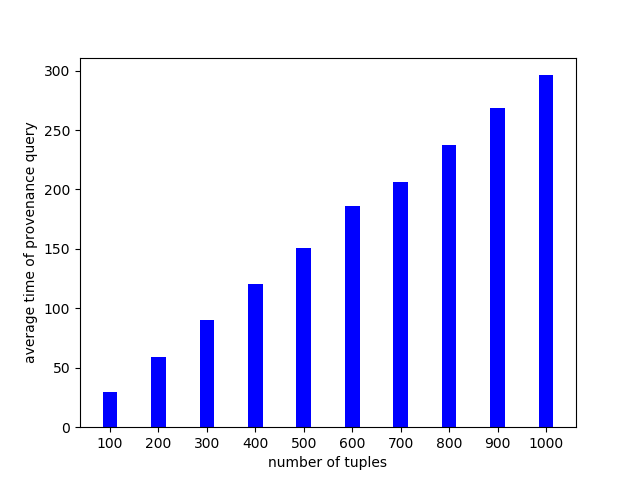
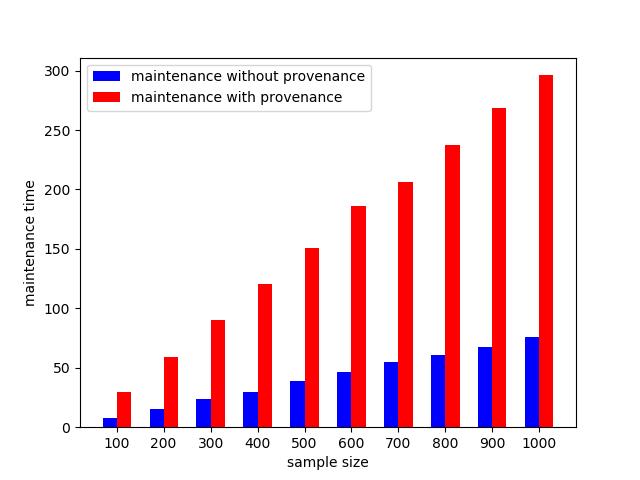
debug toprov

diff --git a/drawBarGraph.py b/drawBarGraph.py
@@ -32,18 +32,31 @@ def drawQueryTimes_5():
 
 
 def drawMaintenanceTime_7():
+  ax = plt.subplot(111)
   xList = ["100", "200", "300", "400", "500", "600", "700", "800", "900", "1000"]
-  queryList = [29.8, 59.1, 90.07, 120.8, 150.5, 186, 206.3, 237.3, 268.6, 296.1]
-  plt.bar(xList, queryList, width=0.3, color="blue")
-  plt.xlabel("number of tuples")
-  plt.ylabel("average time of provenance query")
+  queryList1 = [29.8, 59.1, 90.07, 120.8, 150.5, 186, 206.3, 237.3, 268.6, 296.1]
+  queryList2 = [7.70942, 15.3306, 23.4762, 29.7336, 39.1901, 46.2846, 54.4626, 60.7309, 67.4802, 75.6743]
+  x = np.arange(len(xList))
+  w = 0.3
+  ax.bar(x-0.5*w, queryList2, w, label='maintenance without provenance', color='b')
+  ax.bar(x+0.5*w, queryList1, w, label='maintenance with provenance', color='r')
+  ax.set_ylabel('maintenance time')
+  ax.set_yscale("linear")
+  ax.set_xlabel('sample size')
+  ax.set_xticks(x)
+  ax.set_xticklabels(xList)
+  ax.legend()
   plt.show()
 
 
 def drawQueryTimes_7():
   xList = ["100", "200", "300", "400", "500", "600", "700", "800", "900", "1000"]
-  queryList1 = [0.196, 0.343, 0.567, 0.834, 1.136, 1.778, 2.14, 2.66, 4.56, 7.18]
-  queryList2 = [0.274, 0.58, 0.94, 1.637, 2.174, 2.68, 3.2, 4.05, 5.3, 6.37]
+  # queryList1 = [0.196, 0.343, 0.567, 0.834, 1.136, 1.778, 2.14, 2.66, 4.56, 7.18]
+  queryList1 = [0.1617900351288056, 0.29600839753466873, 0.4953646528417818, 0.7535317385321101, 1.0699165395136778,
+                1.6836761851289834, 2.0418132129909368, 2.5484677601809955, 4.498209130434782, 7.109328710644677]
+  # queryList2 = [0.274, 0.58, 0.94, 1.637, 2.174, 2.68, 3.2, 4.05, 5.3, 6.37]
+  queryList2 = [0.23808514354066984, 0.5371160580152672, 0.8954505701357466, 1.5968827611940297, 2.140646583703704,
+                2.6401818698224853, 3.1556854452662724, 4.0063278197932055, 5.25113364844904, 6.307514858197933]
   ql1 = np.array(queryList1)
   ql2 = np.array(queryList2)
   ql = (ql1+ql2)/2
@@ -86,7 +99,7 @@ def drawProbQueryTimes_7AVG_Logscale():
   ax.bar(x+0.5*w, queryList2, w, label='sampling', color='r')
   ax.set_ylabel('Probability query time')
   ax.set_yscale("log")
-  ax.set_title('Sample size')
+  ax.set_xlabel('sample size')
   ax.set_xticks(x)
   ax.set_xticklabels(xList)
   ax.legend()
@@ -144,7 +157,7 @@ def drawInflQueryTimes_7AVG_Logscale():
   ax.bar(x+0.5*w, queryList2, w, label='exact', color='r')
   ax.set_ylabel('Influence query time')
   ax.set_yscale("log")
-  ax.set_title('Sample size')
+  ax.set_xlabel('sample size')
   ax.set_xticks(x)
   ax.set_xticklabels(xList)
   ax.legend()
@@ -165,12 +178,12 @@ if __name__ == '__main__':
   # drawProbTimes()
   # drawQueryTimes_4()
   # drawQueryTimes_5()
-  drawQueryTimes_7()
-  # drawMaintenanceTime_7()
+  # drawQueryTimes_7()
+  drawMaintenanceTime_7()
   # drawProbQueryTimes_7AVG()
-  # drawProbQueryTimes_7AVG_Logscale()
+  drawProbQueryTimes_7AVG_Logscale()
   # drawProbQueryTimes_8AVG()
   # drawInflQueryTimes_7()
   # drawInflQueryTimes_7AVG()
   # drawInflQueryTimes_7AVG_equa()
-  # drawInflQueryTimes_7AVG_Logscale()
+  drawInflQueryTimes_7AVG_Logscale()

diff --git a/hyperClassToProv.py b/hyperClassToProv.py
@@ -24,16 +24,14 @@ for line in infile.readlines():
     toWrite = split[6][14:]
     outfile.write(toWrite+'\n')
 
-time = 0
-tcount = 0
+intervals = []
 for i in range(2, len(times)):
-  if times[i]-times[i-1]>=131:
-    time += times[i]-times[i-1]
-    tcount += 1
+  intervals.append(times[i]-times[i-1])
+sorted(intervals, reverse=True)
+time = sum(intervals[:count])
 
 print("maintenance time:", (times[1]-times[0])/1000000, "s")
-# print(tcount, count)
-print("average query time:", (time/tcount)/1000000, "s")
+print("average query time:", (time/count)/1000000, "s")
 
 
 infile.close()
